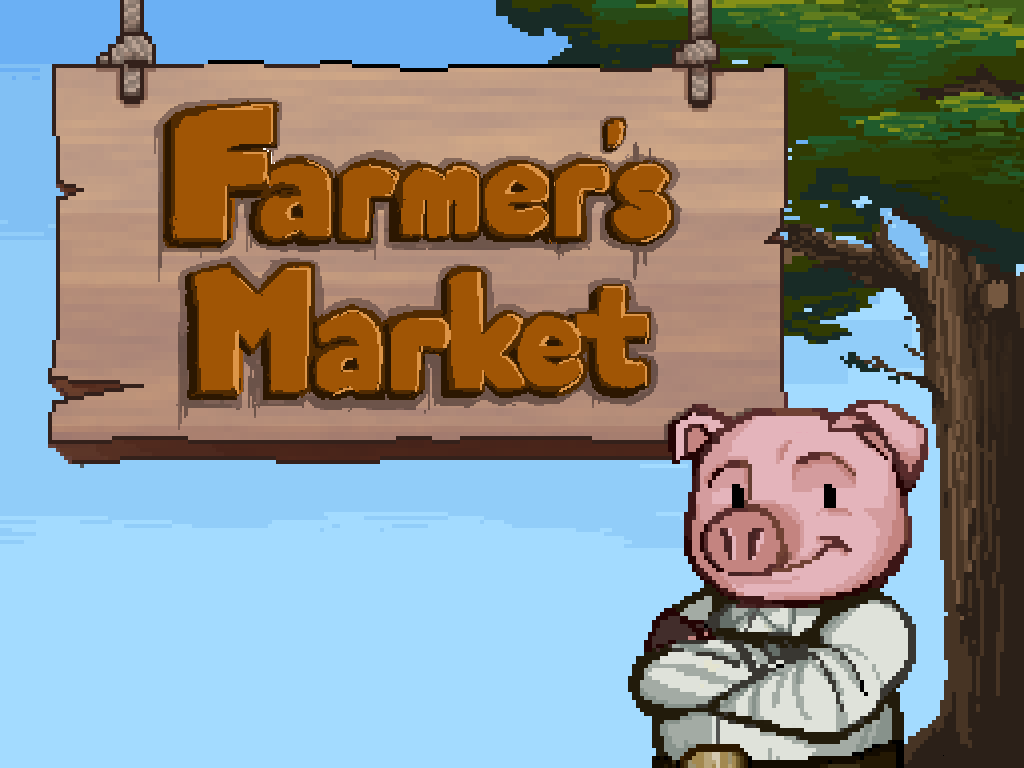
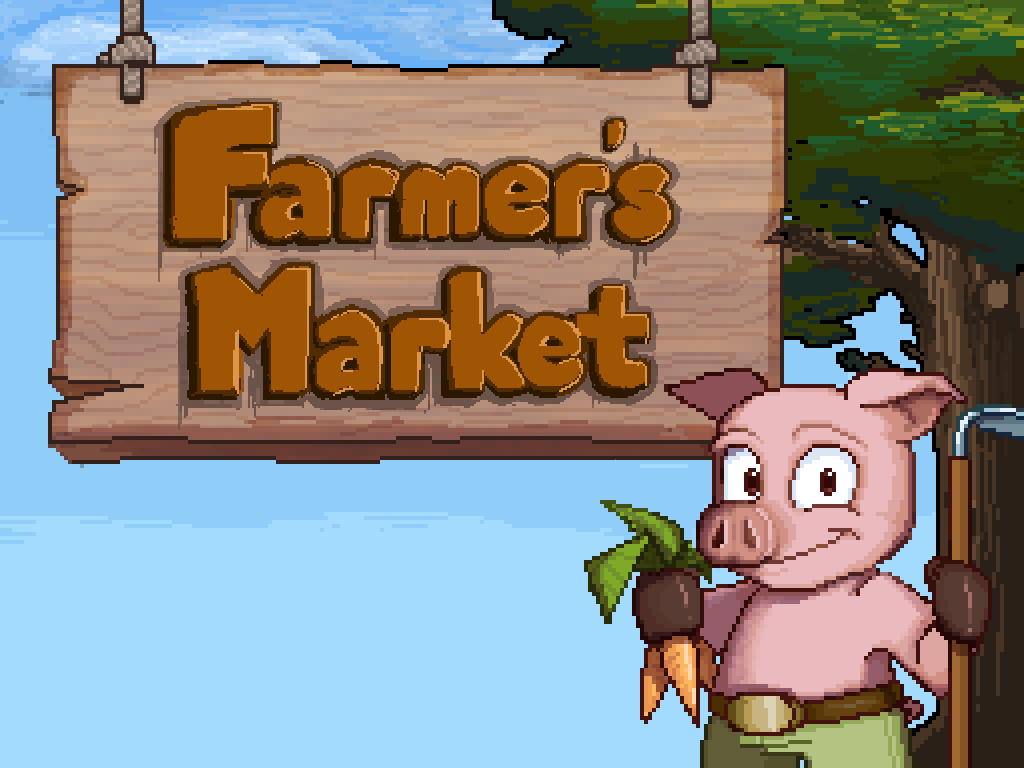
kinda works now?

Changed region(s): [[0.0, 0.0, 1.0, 1.0], [0.8125, 0.25, 0.9062, 0.3438], [0.9688, 0.3438, 1.0, 0.375]]

diff --git a/UI/GUI.cpp b/UI/GUI.cpp
@@ -20,6 +20,9 @@ int GUI::scoreboard_data[NUM_ICON];
 GUIImage GUI::fish_images_list[NUM_FISH_IMG];
 GUIImage GUI::tool_images_list[NUM_TOOL_IMG];
 GUIImage GUI::veg_images_list[NUM_VEG_IMG];
+GUIImage GUI::char_images_list[NUM_ICON];
+int GUI::my_char_idx;
+
 
 GUIImage GUI::curtain_img;
 GUIImage GUI::stamina_image;
@@ -716,6 +719,18 @@ void GUI::initializeImage() {
 	}
 	LoadTextureFromFile((picture_dir + std::string("/sale_background.png")).c_str(), &(sale_background.my_image_texture),
 		&(sale_background.my_image_width), &(sale_background.my_image_height));
+
+	i = 0;
+	const char* char_dir = (picture_dir + std::string("/characters")).c_str();
+	for (auto& entry : fs::directory_iterator(char_dir)) {
+		//std::cout << entry.path() << std::endl;
+		GUIImage* image = &(char_images_list[i]);
+		const char* epath = entry.path().string().c_str();
+		bool ret = LoadTextureFromFile(epath, &(image->my_image_texture),
+			&(image->my_image_width), &(image->my_image_height));
+		
+		i++;
+	}
 }
 
 void GUI::initializeLoadingImage() {
@@ -999,38 +1014,50 @@ void GUI::setTimer(float time) {
 int GUI::renderCharacterSelection(int char_options[], int my_char_index) {
 	int res = -1; 
 	glfwPollEvents();
-	ImGuiWindowFlags window_flags = 0;
-	window_flags |= ImGuiWindowFlags_NoBackground;
-	window_flags |= ImGuiWindowFlags_NoTitleBar;
-	window_flags |= ImGuiWindowFlags_NoResize;
-	window_flags |= ImGuiWindowFlags_NoMove;
-	window_flags |= ImGuiWindowFlags_NoScrollbar;
 	ImGui_ImplOpenGL3_NewFrame();
 	ImGui_ImplGlfw_NewFrame();
 	ImGui::NewFrame();
 
-
+	if (ImGui::IsKeyPressed(ImGuiKey_Enter)) {
+		res = my_char_idx;
+	} else if (ImGui::IsKeyPressed(ImGuiKey_LeftArrow)) {
+		if(my_char_idx > 0)
+			my_char_idx--; 
+	} else if (ImGui::IsKeyPressed(ImGuiKey_RightArrow)) {
+		if (my_char_idx < NUM_ICON - 1) {
+			my_char_idx++; 
+		}
+	}
+	std::set<int> selected_char; 
+	for (int i = 0; i < sizeof(char_options) / sizeof(int); i++) {
+		if (char_options[i] != -1) {
+			selected_char.insert(char_options[i]);
+		}
+	}
 	ImGui::SetNextWindowSize(ImVec2(window_width, window_height));
 	ImGui::SetNextWindowPos(ImVec2(0, 0));
 	ImGui::Begin("Character Selection", NULL, TRANS_WINDOW_FLAG);
-	for (int i = 0; i < sizeof(char_options) / sizeof(int); i++) {
-		if (i == my_char_index) {
+	ImVec2 cursor = ImVec2(10, 10);
+	for (int i = 0; i < NUM_ICON; i++) {
+		ImGui::SetCursorPos(cursor);
+		GUIImage image = char_images_list[i];
+		ImVec2 image_size = ImVec2(image.my_image_width * display_ratio, image.my_image_height * display_ratio);
+		ImGui::Image((void*)(intptr_t)image.my_image_texture, image_size);
+		if (selected_char.find(i) != selected_char.end()) {
+			auto text_size = ImGui::CalcTextSize("SELECTED");
+			ImGui::SetCursorPos(cursor + (image_size - text_size) * 0.5f);
 			ImGui::PushStyleColor(ImGuiCol_Text, IM_COL32(51, 48, 49, 255));
-			ImGui::Text("my choice is %d", char_options[i]);
+			ImGui::Text("SELECTED");
 			ImGui::PopStyleColor();
 		}
-		else {
-			ImGui::Text("other choice is %d", char_options[i]);
+		if (i == my_char_idx) {
+			ImGui::SetCursorPos(cursor);
+			ImDrawList* draw_list = ImGui::GetWindowDrawList();
+			const ImU32 col = IM_COL32(245.f, 61.f, 119.f, 250);
+			draw_list->AddRect(cursor, image_size + cursor, col, 0.0f, ImDrawFlags_None, 5.0f);
 		}
+		cursor.x += image_size.x + 10; 
 	}
-
-	if (ImGui::IsKeyPressed(ImGuiKey_Enter)) {
-		res =  1;
-	}
-	if (ImGui::Button("click my to send packet")) {
-		res = 1; //HARDCODE for test, need to update. 
-	}
-
 	ImGui::End();
 
 	// Rendering

diff --git a/UI/GUI.h b/UI/GUI.h
@@ -17,8 +17,9 @@
 #include "imgui/imgui_internal.h"
 #include <thread>         
 #include <chrono>
+#include <set>
 
-#define NUM_ICON 4
+#define NUM_ICON 4 // should be consistent with the number of character, will be used in multiple place
 #define NUM_RACK_IMG 6
 #define NUM_LOAD_IMG 8
 #define NUM_CHASE_IMG 2 
@@ -44,44 +45,47 @@ public:
 	bool fade_in = true; // true for fade in, false for fade out; 
 
 };
+
 class GUI {
 public:
-	static float display_ratio; 
+	static float display_ratio;
 	static int window_height;
-	static int window_width; 
+	static int window_width;
 	static std::string picture_dir;
 	static GLFWwindow* my_window;
 	static GUIImage score_background;
-	static GUIImage loading_background; 
-	static GUIImage minimap_background; 
-	static GUIImage loading_bg[NUM_LOAD_IMG]; 
+	static GUIImage loading_background;
+	static GUIImage minimap_background;
+	static GUIImage loading_bg[NUM_LOAD_IMG];
 
 	static bool sale_tools; // default to false ( saleing seed), true if show tool shed
 	static bool show_loading;
 	static int rack_image_idx;
-	static int tool_image_idx; 
-	static float timer_percent; 
+	static int tool_image_idx;
+	static int my_char_idx;
+	static float timer_percent;
 	static float stamina_percent; //use this variable to set the stamina display
 
-	static float winning_fade_ratio; 
-	static bool GUI_show_winning; 
+	static float winning_fade_ratio;
+	static bool GUI_show_winning;
 	static std::string GUI_timer_string;
-	
+
 	static ImFont* font_Are_You_Serious;
 	static ImFont* font_Fredericka_the_Great;
 	static ImFont* font_Mystery_Quest;
-	static ImFont* font_Ranchers; 
+	static ImFont* font_Ranchers;
 
 	static GUIImage rack_images_list[NUM_RACK_IMG];
 	static GUIImage icon_images_list[NUM_ICON];
+	static GUIImage char_images_list[NUM_ICON];
 	static GUIImage chase_images_list[NUM_CHASE_IMG];
 	static GUIImage fish_images_list[NUM_FISH_IMG];
 	static GUIImage tool_images_list[NUM_TOOL_IMG];
 	static GUIImage veg_images_list[NUM_VEG_IMG];
-	static GUIImage sale_background; 
+	static GUIImage sale_background;
 	static GUIImage curtain_img;
-	static GUIImage stamina_image; 
-	static GUIImage timer_background; 
+	static GUIImage stamina_image;
+	static GUIImage timer_background;
 	static int scoreboard_data[NUM_ICON];
 	static char* seed_type_list[];
 	static char* tool_type_list[];
@@ -89,7 +93,7 @@ public:
 	static float veg_price_list[];
 
 
-	static ImVec2 player_pos[4]; 
+	static ImVec2 player_pos[4];
 
 
 	static void initializeGUI(GLFWwindow* window);
@@ -98,15 +102,15 @@ public:
 	static bool LoadTextureFromFile(const char* filename, GLuint* out_texture, int* out_width, int* out_height);
 	static void initializeImage();
 	static bool renderLoadScene(GLFWwindow* window);
-	static void initializeLoadingImage(); 
+	static void initializeLoadingImage();
 	static bool renderProgressBar(float percent, GLFWwindow* window, bool flip_image);
-	static void renderWaitingClient(int client_joined, int max_client); 
+	static void renderWaitingClient(int client_joined, int max_client);
 	static int renderCharacterSelection(int char_options[], int my_char_index);
 	static void createMiniMap();
 	static void updateDisplayRatio(int width, int height);
 	static bool ShowGUI(bool show);
 	static void createStamina();
-	static void createTimer(float ratio); 
+	static void createTimer(float ratio);
 	static void setTimer(float time);
 	static bool renderWinningScene();
 	static void createBuyConfirmation();

diff --git a/Network/Server.cpp b/Network/Server.cpp
@@ -254,9 +254,9 @@ begin_loop_accept_client:
 
 			if (cc_packet.confirm_selection && char_selections[client_idx]<0 ) {
 				const bool avaliable = char_unavailable.find(cc_packet.character) == char_unavailable.end();
-				//printf("recv:%d %s \n", cc_packet.character, cc_packet.confirm_selection ? "true" : "false");
 				if (avaliable) {
-					//printf("Avaliable! value set! \n");
+					printf("recv:%d %s \n", cc_packet.character, cc_packet.confirm_selection ? "true" : "false");
+					printf("Avaliable! value set! \n");
 					char_selections[client_idx] = cc_packet.character;
 					char_unavailable.insert(cc_packet.character);
 					sc_packet.char_options[client_idx] = cc_packet.character;
